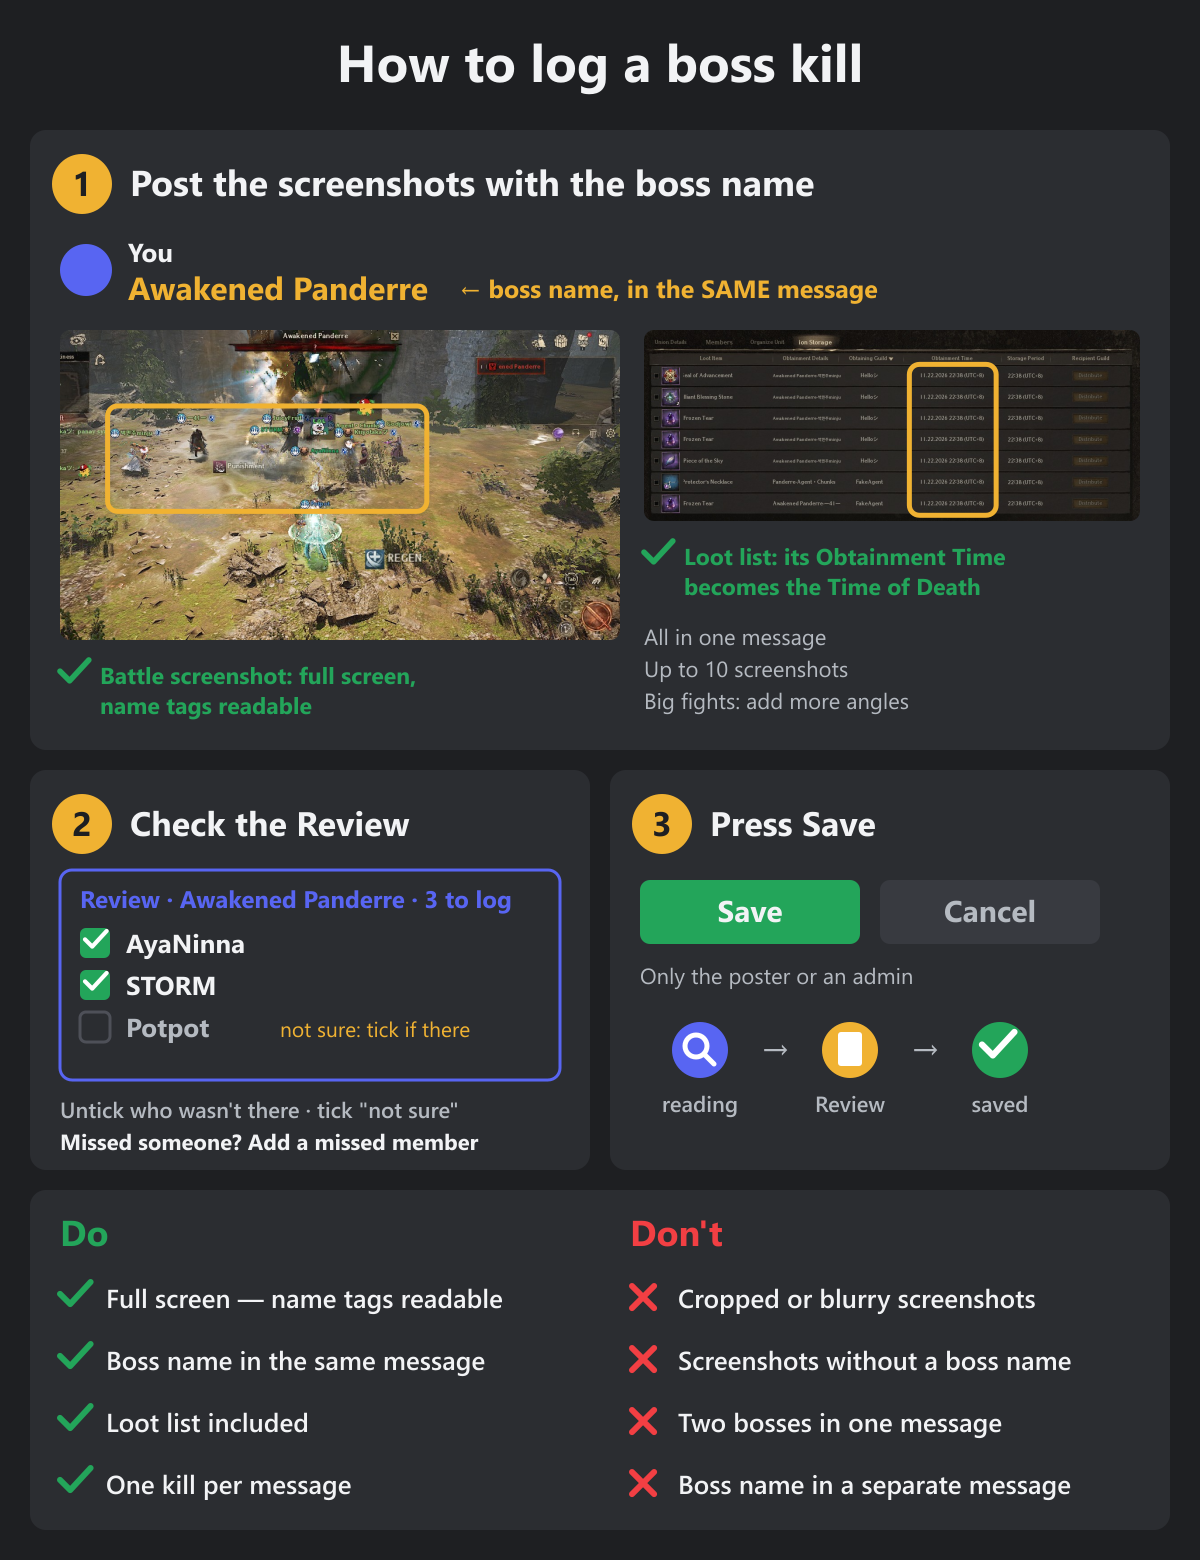
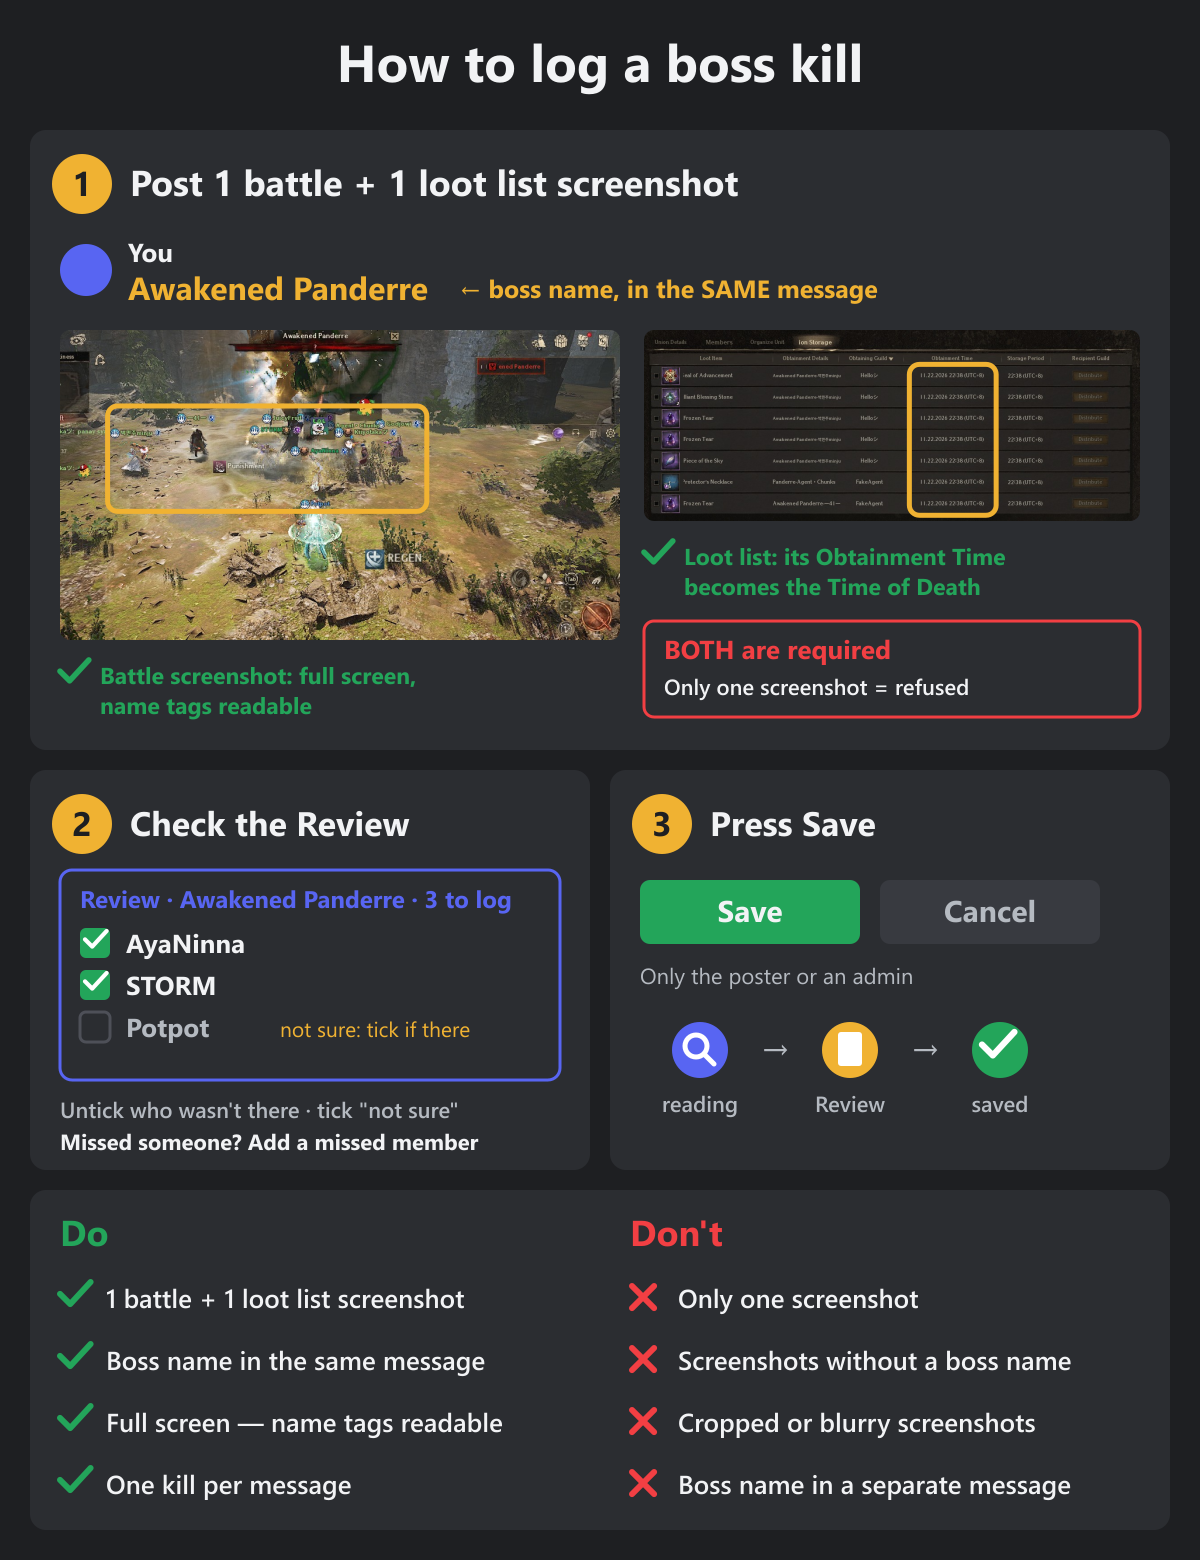
Attendance: require 1 battle + 1 loot list screenshot per post
A single image is refused right away; a post without a battle shot,
without a loot list, or with another boss's loot list is refused after
reading. Guide text and image say so.

diff --git a/lib/attendanceGuide.js b/lib/attendanceGuide.js
@@ -9,7 +9,7 @@ const ATTENDANCE_GUIDE_TITLE = '⚔ How to Log a Boss Kill';
 // Drawn by discord-bot/make-attendance-infographic.js, served from
 // public/guide/ on the site. Bump ?v= after re-drawing it -- Discord caches
 // embed images by URL.
-const ATTENDANCE_GUIDE_IMAGE = 'https://sovereign-nightcrows.vercel.app/guide/attendance-guide.png?v=2';
+const ATTENDANCE_GUIDE_IMAGE = 'https://sovereign-nightcrows.vercel.app/guide/attendance-guide.png?v=3';
 const BOSS_LIST = SCANNABLE_BOSSES.map((b) => b.boss).join(' · ');
 
 const ATTENDANCE_GUIDE = {
@@ -21,7 +21,7 @@ const ATTENDANCE_GUIDE = {
       description:
         'Post your screenshots **in this channel** with the **boss name in the same message**. The bot reads them by itself — no command needed.\n\n' +
         '**Quick steps**\n' +
-        '1. Attach the **battle screenshots** (name tags visible) **and the loot list** screenshot — up to **10** in one message.\n' +
+        '1. Attach **1 battle screenshot** (name tags visible) **+ 1 loot list screenshot**. **Both are required** — a post with only one is refused. Extra battle angles are fine (up to **10** images).\n' +
         '2. Type the **boss name** in that same message: `Kafka`, `RK`, `Baltha`, `Ducas 88/96`…\n' +
         '3. Send it. The bot marks it 🔍 while reading, then replies with a **Review** 📝.\n' +
         '4. Check the Review, fix what\'s wrong, and press **Save** ✅.',
@@ -31,7 +31,7 @@ const ATTENDANCE_GUIDE = {
           value:
             '• **Full screen, not cropped** — the name tags above everyone must be readable.\n' +
             '• Party (**blue**), guild (**green**) and alliance (**light green**) names are read. In big fights, take a few angles so nobody is hidden.\n' +
-            '• The **loot list** (with the date & time) gives the exact **Time of Death** and the loot. Without it, the time is when you posted.\n' +
+            '• The **loot list** (with the date & time) gives the exact **Time of Death** and the loot — **required**.\n' +
             '• Attach images, paste Discord image/message links, or forward the post.',
         },
         {
@@ -40,7 +40,6 @@ const ATTENDANCE_GUIDE = {
             '• Ticked = sure. **Untick** anyone who wasn\'t there.\n' +
             '• "Not sure" guesses start unticked — **tick** them if they were there.\n' +
             '• **➕ Add a missed member** — type part of the name and pick it.\n' +
-            '• Forgot the loot list? **🎁 Add loot** — post it here, Copy Link, paste it.\n' +
             '• **Save** logs it to the site, **Cancel** drops it. Only the poster or an admin can press them.',
         },
         {
@@ -49,7 +48,7 @@ const ATTENDANCE_GUIDE = {
             '• **One kill per message** — two bosses = two messages.\n' +
             '• Same kill posted again? The Review says so, and **Update** replaces the saved names.\n' +
             '• After saving, use **➕ Add member / ➖ Remove** and **🎁 Loot** on the post to fix mistakes.\n' +
-            '• Marks on your post: 🔍 reading · 📝 Review posted · ✅ saved · ❌ cancelled / couldn\'t read\n' +
+            '• Marks on your post: 🔍 reading · 📝 Review posted · ✅ saved · ❌ refused (missing screenshot or boss name), cancelled or couldn\'t read\n' +
             `• Bosses: ${BOSS_LIST}`,
         },
       ],
@@ -65,7 +64,7 @@ const ATTENDANCE_GUIDE = {
           inline: true,
           value:
             '在本频道发送截图，**同一条消息里写上 Boss 名字**（如 `Kafka`、`RK`、`Ducas 88/96`），机器人会自动读取。\n' +
-            '1. 附上**战斗截图**（能看清名字）和**战利品列表截图**，一条消息最多 10 张\n' +
+            '1. **必须**附上 **1 张战斗截图**（能看清名字）**+ 1 张战利品列表截图**，缺一张会被拒绝\n' +
             '2. 机器人显示 🔍 读取中，然后回复 **Review** 📝\n' +
             '3. 取消勾选没来的人，勾选来了的“不确定”名字，用 **➕** 添加漏掉的成员\n' +
             '4. 按 **Save** ✅ 保存\n\n' +
@@ -76,7 +75,7 @@ const ATTENDANCE_GUIDE = {
           inline: true,
           value:
             'このチャンネルにスクショを投稿し、**同じメッセージにボス名を書いてください**（例：`Kafka`、`RK`、`Ducas 88/96`）。ボットが自動で読み取ります。\n' +
-            '1. **戦闘のスクショ**（名前が見える）と**戦利品リストのスクショ**を添付（1メッセージ最大10枚）\n' +
+            '1. **戦闘スクショ1枚**（名前が見える）**＋戦利品リスト1枚**は**必須**。どちらかが無いと受け付けません\n' +
             '2. 🔍 読み取り中 → **Review** 📝 が返信されます\n' +
             '3. いなかった人はチェックを外し、「不確か」の名前で参加者はチェック、漏れは **➕** で追加\n' +
             '4. **Save** ✅ で保存\n\n' +
@@ -88,7 +87,7 @@ const ATTENDANCE_GUIDE = {
           inline: true,
           value:
             'โพสต์ภาพในช่องนี้ และ**พิมพ์ชื่อบอสในข้อความเดียวกัน** (เช่น `Kafka`, `RK`, `Ducas 88/96`) บอทจะอ่านให้เอง\n' +
-            '1. แนบ**ภาพการต่อสู้** (เห็นชื่อ) และ**ภาพรายการของดรอป** ได้สูงสุด 10 ภาพต่อข้อความ\n' +
+            '1. **ต้องมี** **ภาพการต่อสู้ 1 ภาพ** (เห็นชื่อ) **+ ภาพรายการของดรอป 1 ภาพ** ขาดภาพใดภาพหนึ่งจะไม่รับ\n' +
             '2. บอทขึ้น 🔍 ระหว่างอ่าน แล้วตอบกลับเป็น **Review** 📝\n' +
             '3. เอาติ๊กออกคนที่ไม่ได้มา ติ๊กชื่อ "ไม่แน่ใจ" ที่มาจริง และกด **➕** เพื่อเพิ่มคนที่ขาด\n' +
             '4. กด **Save** ✅ เพื่อบันทึก\n\n' +
@@ -99,7 +98,7 @@ const ATTENDANCE_GUIDE = {
           inline: true,
           value:
             'Đăng ảnh trong kênh này và **ghi tên boss trong cùng tin nhắn** (vd: `Kafka`, `RK`, `Ducas 88/96`). Bot sẽ tự đọc.\n' +
-            '1. Đính kèm **ảnh trận đánh** (thấy tên) và **ảnh danh sách vật phẩm rơi**, tối đa 10 ảnh mỗi tin\n' +
+            '1. **Bắt buộc** **1 ảnh trận đánh** (thấy tên) **+ 1 ảnh danh sách vật phẩm**, thiếu một ảnh sẽ bị từ chối\n' +
             '2. Bot hiện 🔍 khi đang đọc, rồi trả lời bằng **Review** 📝\n' +
             '3. Bỏ tick người không có mặt, tick tên "không chắc" nếu họ có mặt, bấm **➕** để thêm người bị sót\n' +
             '4. Bấm **Save** ✅ để lưu\n\n' +

diff --git a/lib/attendanceText.js b/lib/attendanceText.js
@@ -130,18 +130,32 @@ const TEXT = {
     vi: '❌ "{boss}" không có trong danh sách boss. Hãy chọn trong danh sách: {list}',
   },
   needLootList: {
-    en: '❌ Please also attach the loot list screenshot — the Time of Death is read from it. Nothing was saved.',
-    zh: '❌ 请同时附上战利品列表截图——击杀时间从中读取。本次未保存任何内容。',
-    ja: '❌ 戦利品リストのスクショも添付してください。討伐時刻はそこから読み取ります。何も保存されていません。',
-    th: '❌ โปรดแนบภาพรายการของดรอปด้วย — เวลาที่บอสตายอ่านจากภาพนั้น ยังไม่ได้บันทึกอะไร',
-    vi: '❌ Vui lòng đính kèm cả ảnh danh sách vật phẩm rơi — thời điểm hạ boss được đọc từ ảnh đó. Chưa lưu gì cả.',
+    en: '❌ No loot list screenshot found. Post again with **1 battle screenshot + 1 loot list screenshot** and the boss name. Nothing was saved.',
+    zh: '❌ 没有找到战利品列表截图。请重新发送：**1 张战斗截图 + 1 张战利品列表截图**，并写上 Boss 名字。本次未保存任何内容。',
+    ja: '❌ 戦利品リストのスクショが見つかりません。**戦闘スクショ1枚＋戦利品リスト1枚**とボス名で投稿し直してください。何も保存されていません。',
+    th: '❌ ไม่พบภาพรายการของดรอป โปรดโพสต์ใหม่พร้อม **ภาพการต่อสู้ 1 ภาพ + ภาพรายการของดรอป 1 ภาพ** และชื่อบอส ยังไม่ได้บันทึกอะไร',
+    vi: '❌ Không thấy ảnh danh sách vật phẩm rơi. Hãy đăng lại với **1 ảnh trận đánh + 1 ảnh danh sách vật phẩm** và tên boss. Chưa lưu gì cả.',
+  },
+  needBattleShot: {
+    en: '❌ No battle screenshot found (the one with the name tags). Post again with **1 battle screenshot + 1 loot list screenshot** and the boss name. Nothing was saved.',
+    zh: '❌ 没有找到战斗截图（能看到名字的那张）。请重新发送：**1 张战斗截图 + 1 张战利品列表截图**，并写上 Boss 名字。本次未保存任何内容。',
+    ja: '❌ 戦闘のスクショ（名前が見えるもの）が見つかりません。**戦闘スクショ1枚＋戦利品リスト1枚**とボス名で投稿し直してください。何も保存されていません。',
+    th: '❌ ไม่พบภาพการต่อสู้ (ภาพที่เห็นชื่อ) โปรดโพสต์ใหม่พร้อม **ภาพการต่อสู้ 1 ภาพ + ภาพรายการของดรอป 1 ภาพ** และชื่อบอส ยังไม่ได้บันทึกอะไร',
+    vi: '❌ Không thấy ảnh trận đánh (ảnh có tên người chơi). Hãy đăng lại với **1 ảnh trận đánh + 1 ảnh danh sách vật phẩm** và tên boss. Chưa lưu gì cả.',
+  },
+  needBothShots: {
+    en: '❌ Two screenshots are required: **1 battle screenshot** (name tags) **+ 1 loot list screenshot**, in one message with the boss name. Please post again — see the guide below.',
+    zh: '❌ 需要两张截图：**1 张战斗截图**（能看到名字）**+ 1 张战利品列表截图**，放在同一条消息并写上 Boss 名字。请重新发送——见下方说明。',
+    ja: '❌ スクショは2枚必要です：**戦闘スクショ1枚**（名前が見える）**＋戦利品リスト1枚**を、ボス名と一緒に1つのメッセージで。投稿し直してください（下のガイド参照）。',
+    th: '❌ ต้องมี 2 ภาพ: **ภาพการต่อสู้ 1 ภาพ** (เห็นชื่อ) **+ ภาพรายการของดรอป 1 ภาพ** ในข้อความเดียวพร้อมชื่อบอส โปรดโพสต์ใหม่ — ดูคำแนะนำด้านล่าง',
+    vi: '❌ Cần 2 ảnh: **1 ảnh trận đánh** (thấy tên) **+ 1 ảnh danh sách vật phẩm**, trong cùng một tin nhắn kèm tên boss. Hãy đăng lại — xem hướng dẫn bên dưới.',
   },
   lootBossMismatch: {
-    en: '❌ The loot list is for {lootBoss}, not {boss}. Pick the right boss or attach that boss\'s loot list. Nothing was saved.',
-    zh: '❌ 这份战利品列表属于 {lootBoss}，不是 {boss}。请选择正确的 Boss 或附上该 Boss 的战利品列表。本次未保存任何内容。',
-    ja: '❌ この戦利品リストは {boss} ではなく {lootBoss} のものです。正しいボスを選ぶか、そのボスの戦利品リストを添付してください。何も保存されていません。',
-    th: '❌ รายการของดรอปนี้เป็นของ {lootBoss} ไม่ใช่ {boss} โปรดเลือกบอสให้ถูก หรือแนบรายการของดรอปของบอสนั้น ยังไม่ได้บันทึกอะไร',
-    vi: '❌ Danh sách vật phẩm này là của {lootBoss}, không phải {boss}. Hãy chọn đúng boss hoặc đính kèm danh sách vật phẩm của boss đó. Chưa lưu gì cả.',
+    en: '❌ The loot list is for {lootBoss}, not {boss}. Check the boss name in your message, or post this boss\'s loot list. Nothing was saved.',
+    zh: '❌ 这份战利品列表属于 {lootBoss}，不是 {boss}。请检查消息中的 Boss 名字，或发送该 Boss 的战利品列表。本次未保存任何内容。',
+    ja: '❌ この戦利品リストは {boss} ではなく {lootBoss} のものです。メッセージのボス名を確認するか、このボスの戦利品リストを投稿してください。何も保存されていません。',
+    th: '❌ รายการของดรอปนี้เป็นของ {lootBoss} ไม่ใช่ {boss} โปรดตรวจชื่อบอสในข้อความ หรือโพสต์รายการของดรอปของบอสนี้ ยังไม่ได้บันทึกอะไร',
+    vi: '❌ Danh sách vật phẩm này là của {lootBoss}, không phải {boss}. Hãy kiểm tra tên boss trong tin nhắn, hoặc đăng danh sách vật phẩm của boss này. Chưa lưu gì cả.',
   },
   lootAdded: {
     en: '🎁 Loot added to the {boss} record at {time}: {count} item(s).',

diff --git a/discord-bot/make-attendance-infographic.js b/discord-bot/make-attendance-infographic.js
@@ -76,7 +76,7 @@ async function postSection() {
   return (
     rect(30, PY, W - 60, 620) +
     badge(82, PY + 54, '1') +
-    text(130, PY + 66, 'Post the screenshots with the boss name', { size: 36, weight: 800 }) +
+    text(130, PY + 66, 'Post 1 battle + 1 loot list screenshot', { size: 36, weight: 800 }) +
     // the message itself
     `<circle cx="${left + 26}" cy="${PY + 140}" r="26" fill="${C.blurple}"/>` +
     text(left + 68, PY + 132, 'You', { size: 26, weight: 800 }) +
@@ -92,9 +92,9 @@ async function postSection() {
     check(lx, y + lh + 20, 0.8) +
     text(lx + 40, y + lh + 44, 'Loot list: its Obtainment Time', { size: 23, weight: 700, fill: C.green }) +
     text(lx + 40, y + lh + 74, 'becomes the Time of Death', { size: 23, weight: 700, fill: C.green }) +
-    text(lx, y + lh + 124, 'All in one message', { size: 22, weight: 500, fill: C.muted }) +
-    text(lx, y + lh + 156, 'Up to 10 screenshots', { size: 22, weight: 500, fill: C.muted }) +
-    text(lx, y + lh + 188, 'Big fights: add more angles', { size: 22, weight: 500, fill: C.muted })
+    rect(lx, y + lh + 100, lw, 96, { fill: 'none', stroke: C.red, sw: 3, r: 10 }) +
+    text(lx + 20, y + lh + 138, 'BOTH are required', { size: 26, weight: 800, fill: C.red }) +
+    text(lx + 20, y + lh + 174, 'Only one screenshot = refused', { size: 22, weight: 600, fill: C.text })
   );
 }
 
@@ -136,8 +136,8 @@ const save = (x, y) =>
 // Do / Don't.
 const DY = 1190;
 function dosAndDonts() {
-  const dos = ['Full screen — name tags readable', 'Boss name in the same message', 'Loot list included', 'One kill per message'];
-  const donts = ['Cropped or blurry screenshots', 'Screenshots without a boss name', 'Two bosses in one message', 'Boss name in a separate message'];
+  const dos = ['1 battle + 1 loot list screenshot', 'Boss name in the same message', 'Full screen — name tags readable', 'One kill per message'];
+  const donts = ['Only one screenshot', 'Screenshots without a boss name', 'Cropped or blurry screenshots', 'Boss name in a separate message'];
   let s = rect(30, DY, W - 60, 340) + text(60, DY + 56, 'Do', { size: 36, weight: 800, fill: C.green }) + text(630, DY + 56, "Don't", { size: 36, weight: 800, fill: C.red });
   dos.forEach((t, i) => {
     s += check(60, DY + 92 + i * 62, 0.85) + text(106, DY + 118 + i * 62, t, { size: 26, weight: 600 });

diff --git a/lib/discordInteractions.js b/lib/discordInteractions.js
@@ -2600,6 +2600,17 @@ async function reviewAttendancePost({ channelId, messageId, content, imageUrls, 
     return 'skipped: no boss name';
   }
 
+  // Every post needs at least one battle (attendance) screenshot AND one
+  // loot list screenshot. A single attached image can't be both: refuse it
+  // right away, before reading anything.
+  if ((imageUrls?.length || 0) < 2 && !hasScreenshotLinks(content)) {
+    await setMark(channelId, messageId, MARK_FAILED);
+    await postChannelMessage(channelId, { content: multi('needBothShots'), message_reference: { message_id: messageId, fail_if_not_exists: false }, allowed_mentions: { parse: [] } })
+      .catch((err) => console.error('attendance: could not ask for both screenshots:', err.message));
+    if (restick) await restickAttendanceGuide(channelId);
+    return 'refused: only one screenshot';
+  }
+
   await setMark(channelId, messageId, MARK_READING);
   // "Sovereign Records is typing…" in the channel the whole time it reads,
   // so it's clear it's working (Discord shows it ~10 s per call).
@@ -2629,6 +2640,11 @@ async function reviewAttendancePost({ channelId, messageId, content, imageUrls, 
     // Time of Death: the loot list's own kill time when it's this boss's;
     // otherwise when the post was made.
     const kill = lootGroups.find((g) => g.boss.boss === boss.boss);
+    // Both kinds are required: a battle screenshot for who was there, and
+    // this boss's loot list for the loot and the Time of Death.
+    if (!nameLists.length) throw new AttendanceScanError('needBattleShot', 'no battle screenshot');
+    if (!lootRows.length) throw new AttendanceScanError('needLootList', 'no loot list screenshot');
+    if (!kill) throw new AttendanceScanError('lootBossMismatch', 'loot list of another boss', { boss: boss.boss, lootBoss: lootGroups[0]?.boss.boss || '?' });
     const when = kill ? { wall: kill.wall, unix: wallToUnix(kill.wall) } : resolveEventTime(new Date(snowflakeTime(messageId)));
     const scan = nameLists.length ? await scanNameScreenshots(nameLists) : { savable: [], unsure: [] };
     const sure = scan.savable || [];

diff --git a/discord-bot/README.md b/discord-bot/README.md
@@ -138,10 +138,12 @@ message ("Ducas", "dergio 88/96"). The bot reads them and replies with a
   unticked (with what the screenshot read); untick anyone who wasn't there,
 - **➕ Add a missed member** searches the Growth Rate list (type part of a
   name, tick the match),
-- with a loot-list screenshot in the post, its loot and exact kill time are
-  used; otherwise the Time of Death is when the message was posted.
-  Forgot it? **🎁 Add loot** on the Review takes the loot screenshot's
-  link (post it in the channel, Copy Link) and adds its loot and kill time,
+- **required: at least 1 battle screenshot + 1 loot list screenshot** (of
+  the named boss). A single image is refused at once (❌ + a reply, nothing
+  read); a post with no battle shot, no loot list, or another boss's loot
+  list is refused after reading. The loot list gives the loot and the exact
+  Time of Death. (**🎁 Add loot** on a Review still takes a loot
+  screenshot's link and adds its loot and kill time.)
 - screenshots can be attached or pasted as Discord image/message links,
 - if that kill is already on the site, the Review says so, lists its saved
   names ticked, and **Update** replaces the record's names with the ticked
